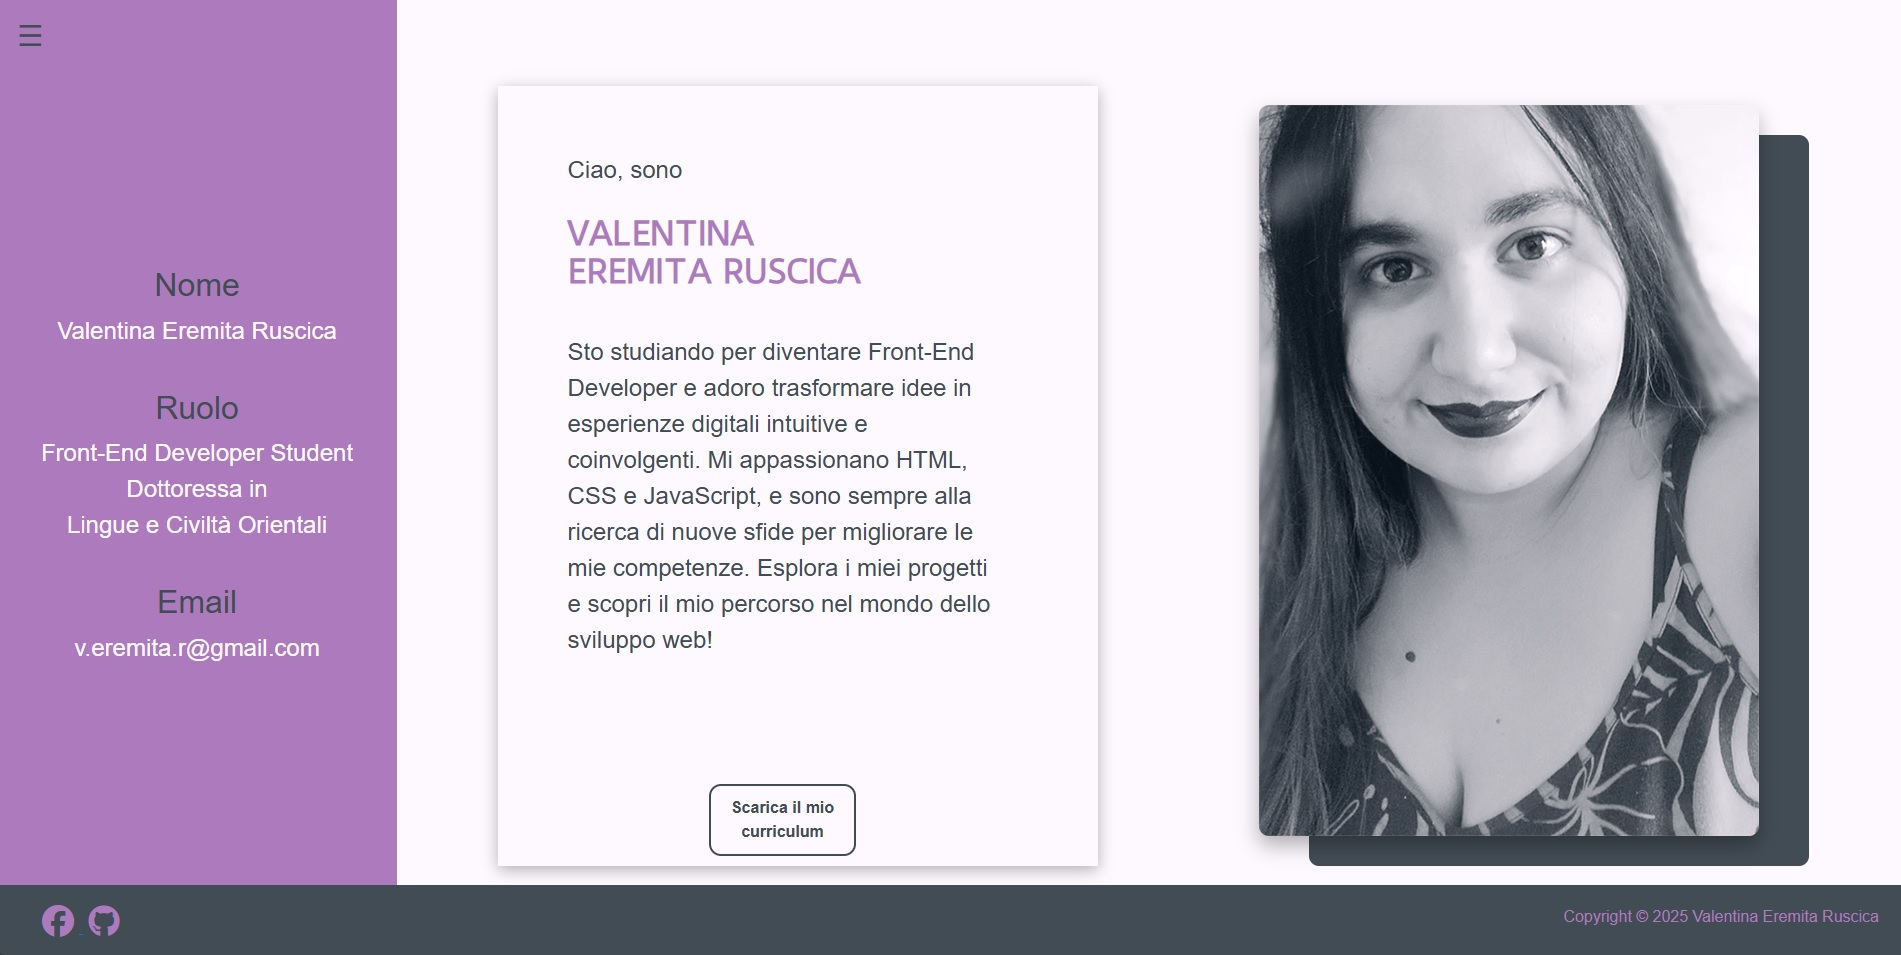
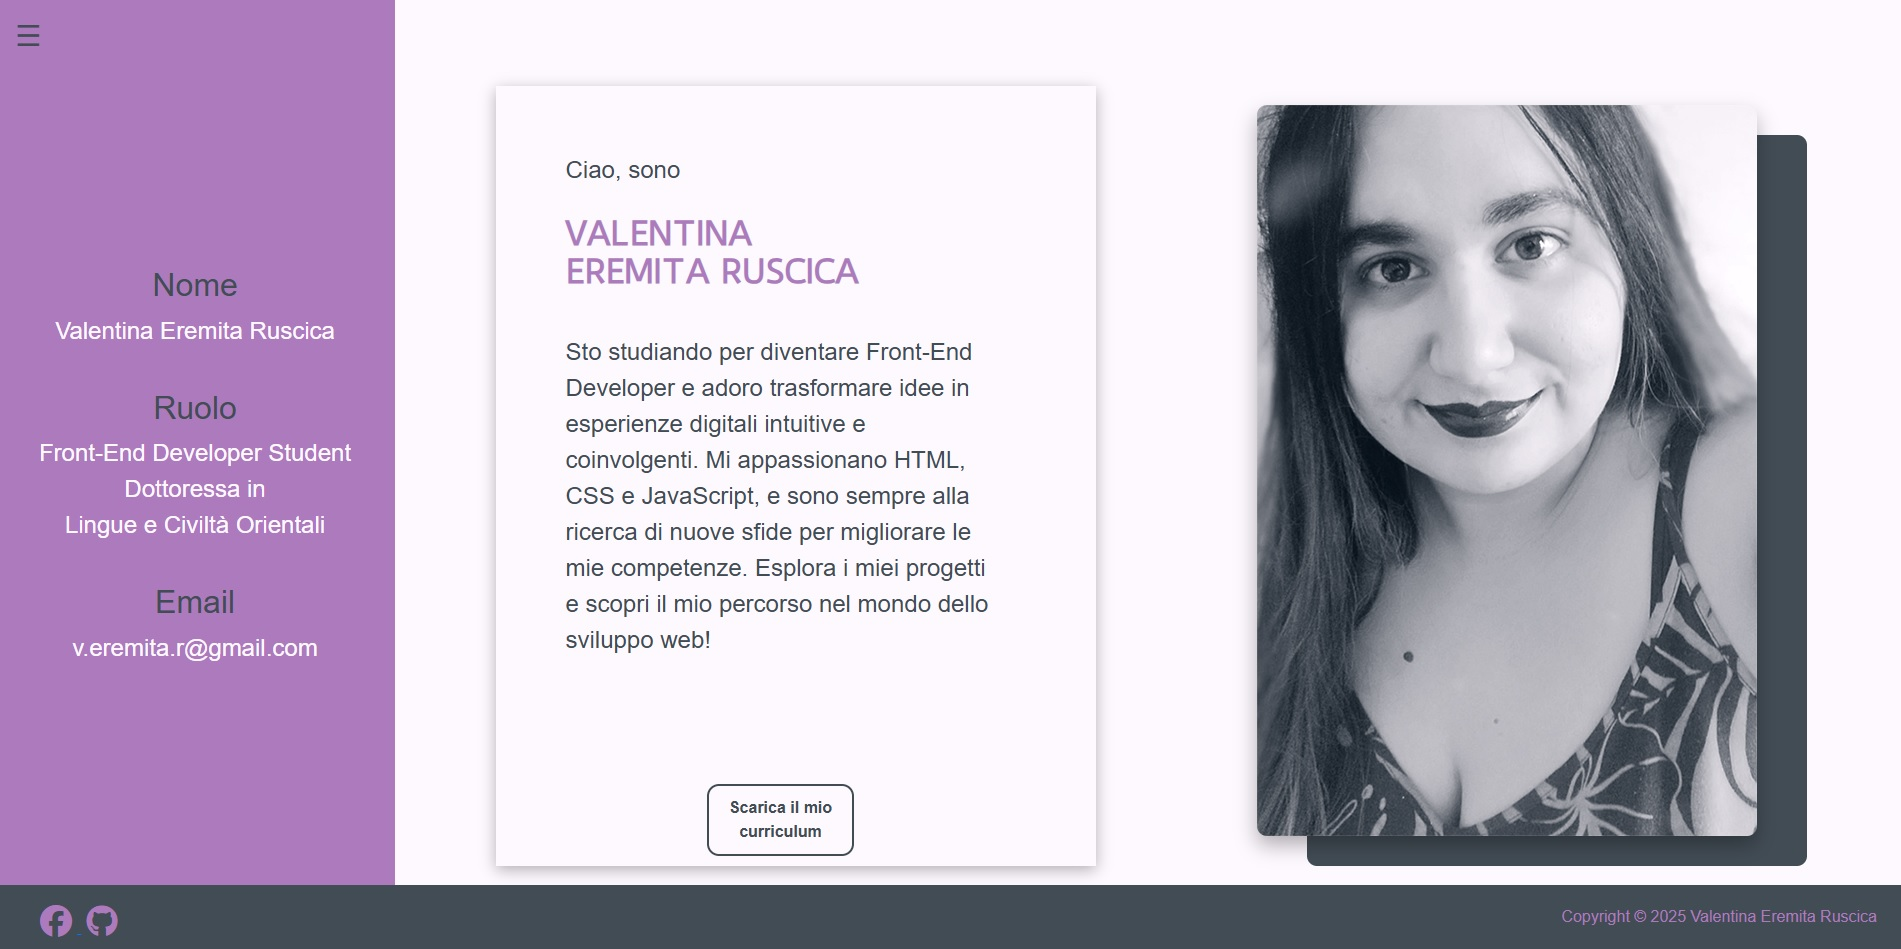
og image

diff --git a/index.html b/index.html
@@ -6,7 +6,7 @@
     <meta property="og:title" content="Portfolio Valentina"/>
     <meta property="og:description" content="Il portfolio di Valentina Eremita Ruscica"/>
     <meta property="og:type" content="website"/>
-    <meta property="og:image" content="https://imgur.com/a/SABleEX"/> /* da modificare */
+    <meta property="og:image" content="https://i.imgur.com/5eaNRyP.jpg"/> 
     <link rel="apple-touch-icon" sizes="180x180" href="img/favicon/apple-touch-icon.png">
     <link rel="icon" type="image/png" sizes="32x32" href="img/favicon/favicon-32x32.png">
     <link rel="icon" type="image/png" sizes="16x16" href="img/favicon/favicon-16x16.png">
